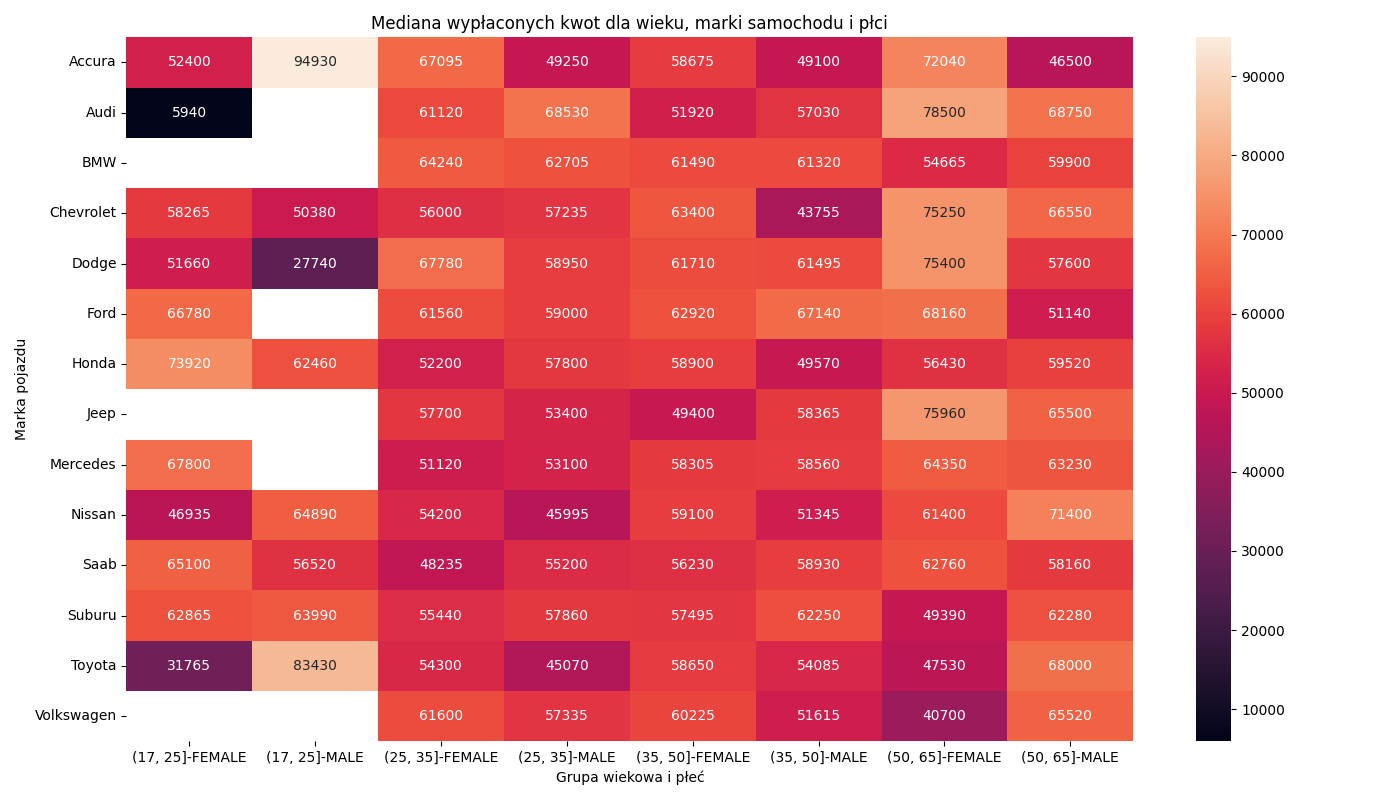
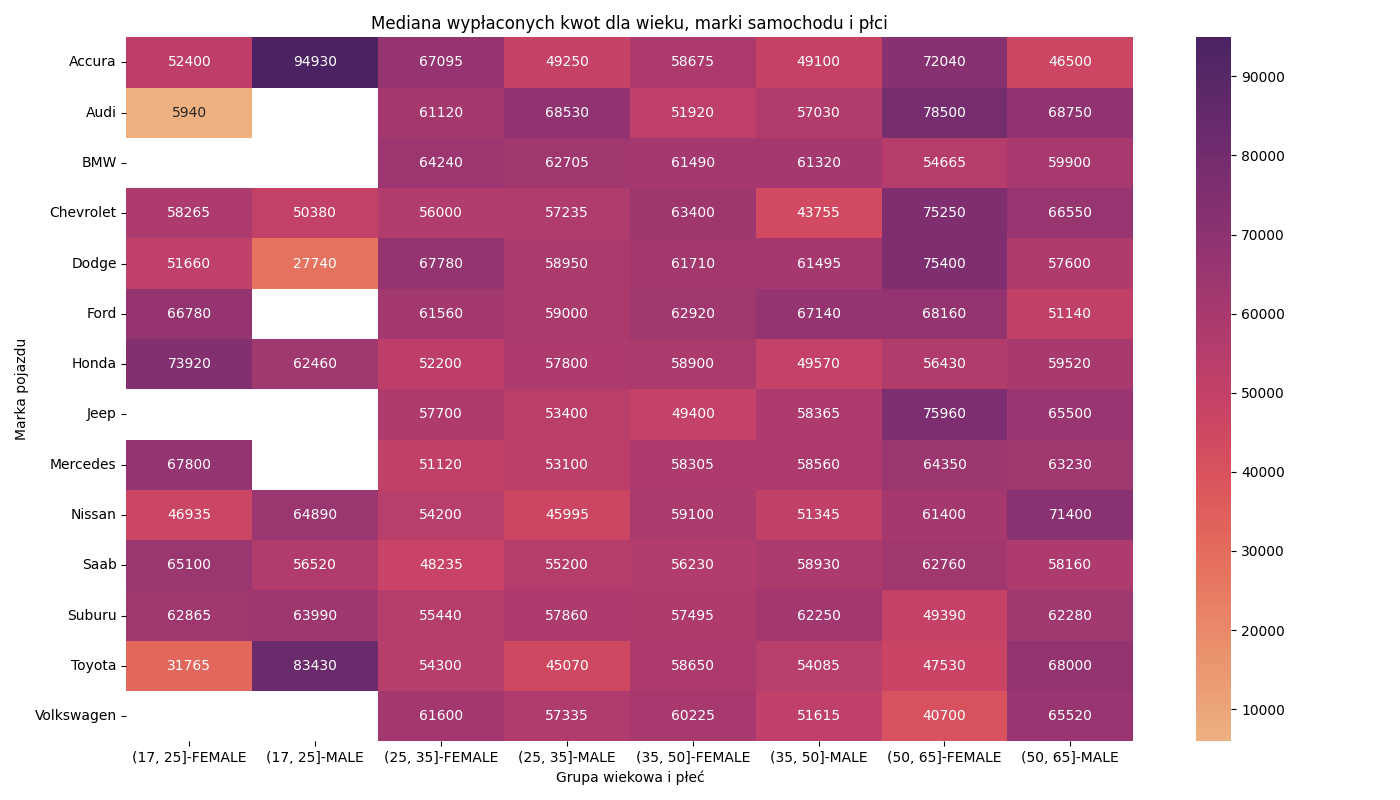
change: zmiana nazw funkcji na czytelniejsze

diff --git a/skrypt.py b/skrypt.py
@@ -32,7 +32,7 @@ def tabela_szkodowosc(df):
 def heatmap(tabela):
     plt.figure(figsize=(14,8))
 
-    sns.heatmap(tabela, fmt=".0f", annot=True)
+    sns.heatmap(tabela, cmap="flare", fmt=".0f", annot=True)
     plt.title("Mediana wypłaconych kwot dla wieku, marki samochodu i płci")
     plt.ylabel("Marka pojazdu")
     plt.xlabel("Grupa wiekowa i płeć")
@@ -49,7 +49,7 @@ def sprawdz_rozklad_zmiennej(df):
     plt.ylabel("Liczba wypadków")
     plt.show()
 
-def obciecie_duze_szkody(df):
+def filtruj_duze_szkody(df):
     duze_szkody = df[df['total_claim_amount']>25000].copy()
     duze_szkody['nadwyzka'] = duze_szkody['total_claim_amount'] - 25000
 
@@ -58,7 +58,7 @@ def obciecie_duze_szkody(df):
 
 # Przeprowadzamy analize TYLKO dla szkód większych niż 25 000 USD
 def model_duze_szkody(df):
-    formula = "nadwyzka ~ C(collision_type) + bodily_injuries + number_of_vehicles_involved + age + I(age**2) + C(insured_sex) + C(auto_make)" # przewidujemy wypłacone odszkodowanie na podstawie wieku, płci i marki samochodu
+    formula = "nadwyzka ~ C(collision_type) + bodily_injuries + number_of_vehicles_involved + age + I(age**2) + C(insured_sex) + C(auto_make)"
 
     model_duze = smf.glm(formula=formula, 
                          data=df, 
@@ -88,7 +88,7 @@ if __name__ == "__main__":
     heatmap(tabela) # Szkicujemy heatmape
 
     sprawdz_rozklad_zmiennej(dane) # Szkicujemy rozkład wypłaconych ubezpieczeń
-    dane_duze_szkody = obciecie_duze_szkody(dane) # usuwamy wszystkie wiersze gdzie wyplacona kwota jest mniejsza niz 25 000 USD
+    dane_duze_szkody = filtruj_duze_szkody(dane) # usuwamy wszystkie wiersze gdzie wyplacona kwota jest mniejsza niz 25 000 USD
     sprawdz_rozklad_zmiennej(dane_duze_szkody)
     print(f"Współczynnik skośności: {dane_duze_szkody['total_claim_amount'].skew()}") # współczynnik ~= 0.27 zatem dane są lekko prawo skośne wybieramy rozkład gamma
 
